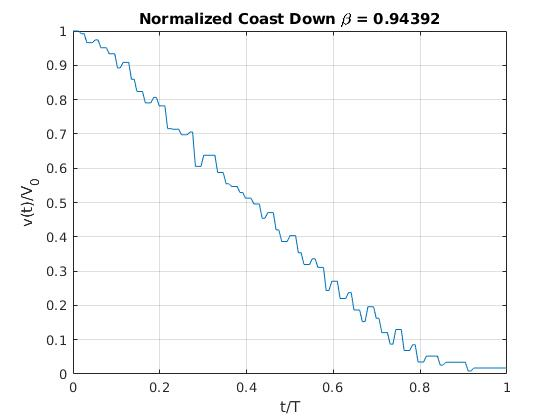
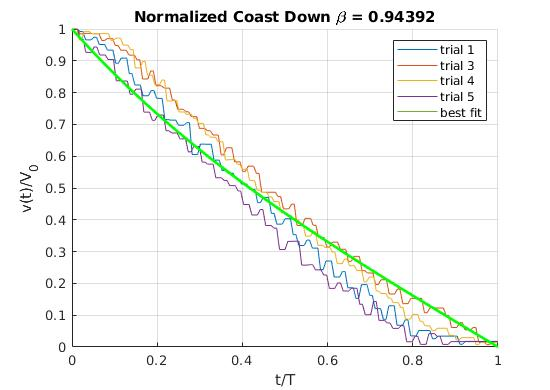
fixes to lab6 coast down

Changed region(s): [[0.0309, 0.0308, 0.9273, 0.9538], [0.4945, 0.9538, 0.5564, 0.9846], [0.2473, 0.9231, 0.3091, 0.9538]]

diff --git a/lab6/lab6_coast_down.m b/lab6/lab6_coast_down.m
@@ -2,7 +2,13 @@
 % determining Cd and Rx for the BARC using least squares
 % experimental data in coast_down.mat
 
-%% constants and load data
+close all; clear; clc;
+
+% constants
+Af = 0.15*0.25*0.9; % approximate frontal area from NSCEP
+rho = 1.225; % air density
+g = 9.81; % gravitational acceleration
+m = 5; % mass
 
 % note this data has been pruned by hand to only include time at V_0 until
 % stopping time T
@@ -10,34 +16,63 @@
 % laod data
 load('coast_down_data.mat')
 
+hold on;
+
 % run nonlinear least squares to get a beta estimate for each trial
-beta_hat1 = run_lsq(coasttrial1.rosbagTimestamp, coasttrial1.data)
-beta_hat3 = run_lsq(coasttrial3.rosbagTimestamp, coasttrial3.data)
+[beta_hat1, Cd1, Rx1] = run_lsq(coasttrial1.rosbagTimestamp, coasttrial1.data);
 % beta_hat2 was negative, we'll ingnore it
-beta_hat4 = run_lsq(coasttrial4.rosbagTimestamp, coasttrial4.data)
-beta_hat5 = run_lsq(coasttrial5.rosbagTimestamp, coasttrial5.data)
+[beta_hat3, Cd3, Rx3] = run_lsq(coasttrial3.rosbagTimestamp, coasttrial3.data);
+[beta_hat4, Cd4, Rx4] = run_lsq(coasttrial4.rosbagTimestamp, coasttrial4.data);
+[beta_hat5, Cd5, Rx5] = run_lsq(coasttrial5.rosbagTimestamp, coasttrial5.data);
 
-% compute an average beta across all 5 trials
+% compute an average across all 4 trials
 beta_hat = (beta_hat1 + beta_hat3 + beta_hat4 + beta_hat5)/4
+Cd_hat = (Cd1 + Cd3 + Cd4 + Cd5)/4
+Rx_hat = (Rx1 + Rx3 + Rx4 + Rx5)/4
 
-% compute Cd and Rx in terms of the average beta (using that v(T) = 0)
-Cd = (2*m*beta_hat*atan(beta_hat))/(V0*rho*T*Af)
-Rx = (V0*m*atan(beta_hat))/(beta_hat*T)
+%% plot the line of best fit using beta_hat
 
-% the plot for task 2.3 deliverable
-plot(normalized_t, normalized_v)
+% TODO: this seems janky to me, which normalized time and I supposed to
+% use?
+
+time_nsecs = coasttrial1.rosbagTimestamp;
+velocity = coasttrial1.data
+
+time_s = [];
+
+for i=1:length(time_nsecs)
+    time_s = [time_s; (time_nsecs(i)-time_nsecs(1))*10^-9];
+end
+
+V0 = velocity(1); % initial velocity in [m/s]
+T = time_s(end); % the time the vehicle comes to rest in [s]
+
+normalized_t = time_s./T;
+normalized_v = velocity./V0;
+
+normal_v = (1/beta_hat)*tan((1-normalized_t)*atan(beta_hat));
+plot(normalized_t, normal_v, 'g', 'LineWidth', 2)
+
 title("Normalized Coast Down \beta = " + beta_hat)
 ylabel("v(t)/V_{0}")
 xlabel("t/T")
 grid()
+legend("trial 1", "trial 3", "trial 4", "trial 5", "best fit")
 
 % results
-% beta_hat = 0.9439
-% Cd = 24.6729 
-% Rx = 2.8834
-
-
-
+% beta_hat =
+% 
+%     0.9439
+% 
+% 
+% Cd_hat =
+% 
+%    24.9727
+% 
+% 
+% Rx_hat =
+% 
+%     3.0344
 
 
     

diff --git a/lab6/run_lsq.m b/lab6/run_lsq.m
@@ -1,4 +1,4 @@
-function beta_hat = run_lsq(time_nsecs,velocity)
+function [beta_hat, Cd, Rx] = run_lsq(time_nsecs,velocity)
 % returns from beta_hat from a nonlinear least squares on recorded coast
 % down data
 
@@ -32,5 +32,11 @@ fun = @(beta, xdata) (1/beta)*tan((1 - xdata)*atan(beta));
 
 % the least squares solution to the beta parameter
 beta_hat = lsqcurvefit(fun, beta, xdata, ydata);
+Cd = (2*m*beta_hat*atan(beta_hat))/(V0*rho*T*Af);
+Rx = (V0*m*atan(beta_hat))/(beta_hat*T);
+
+% the plot for task 2.3 deliverable
+plot(normalized_t, normalized_v)
+
 end
 
